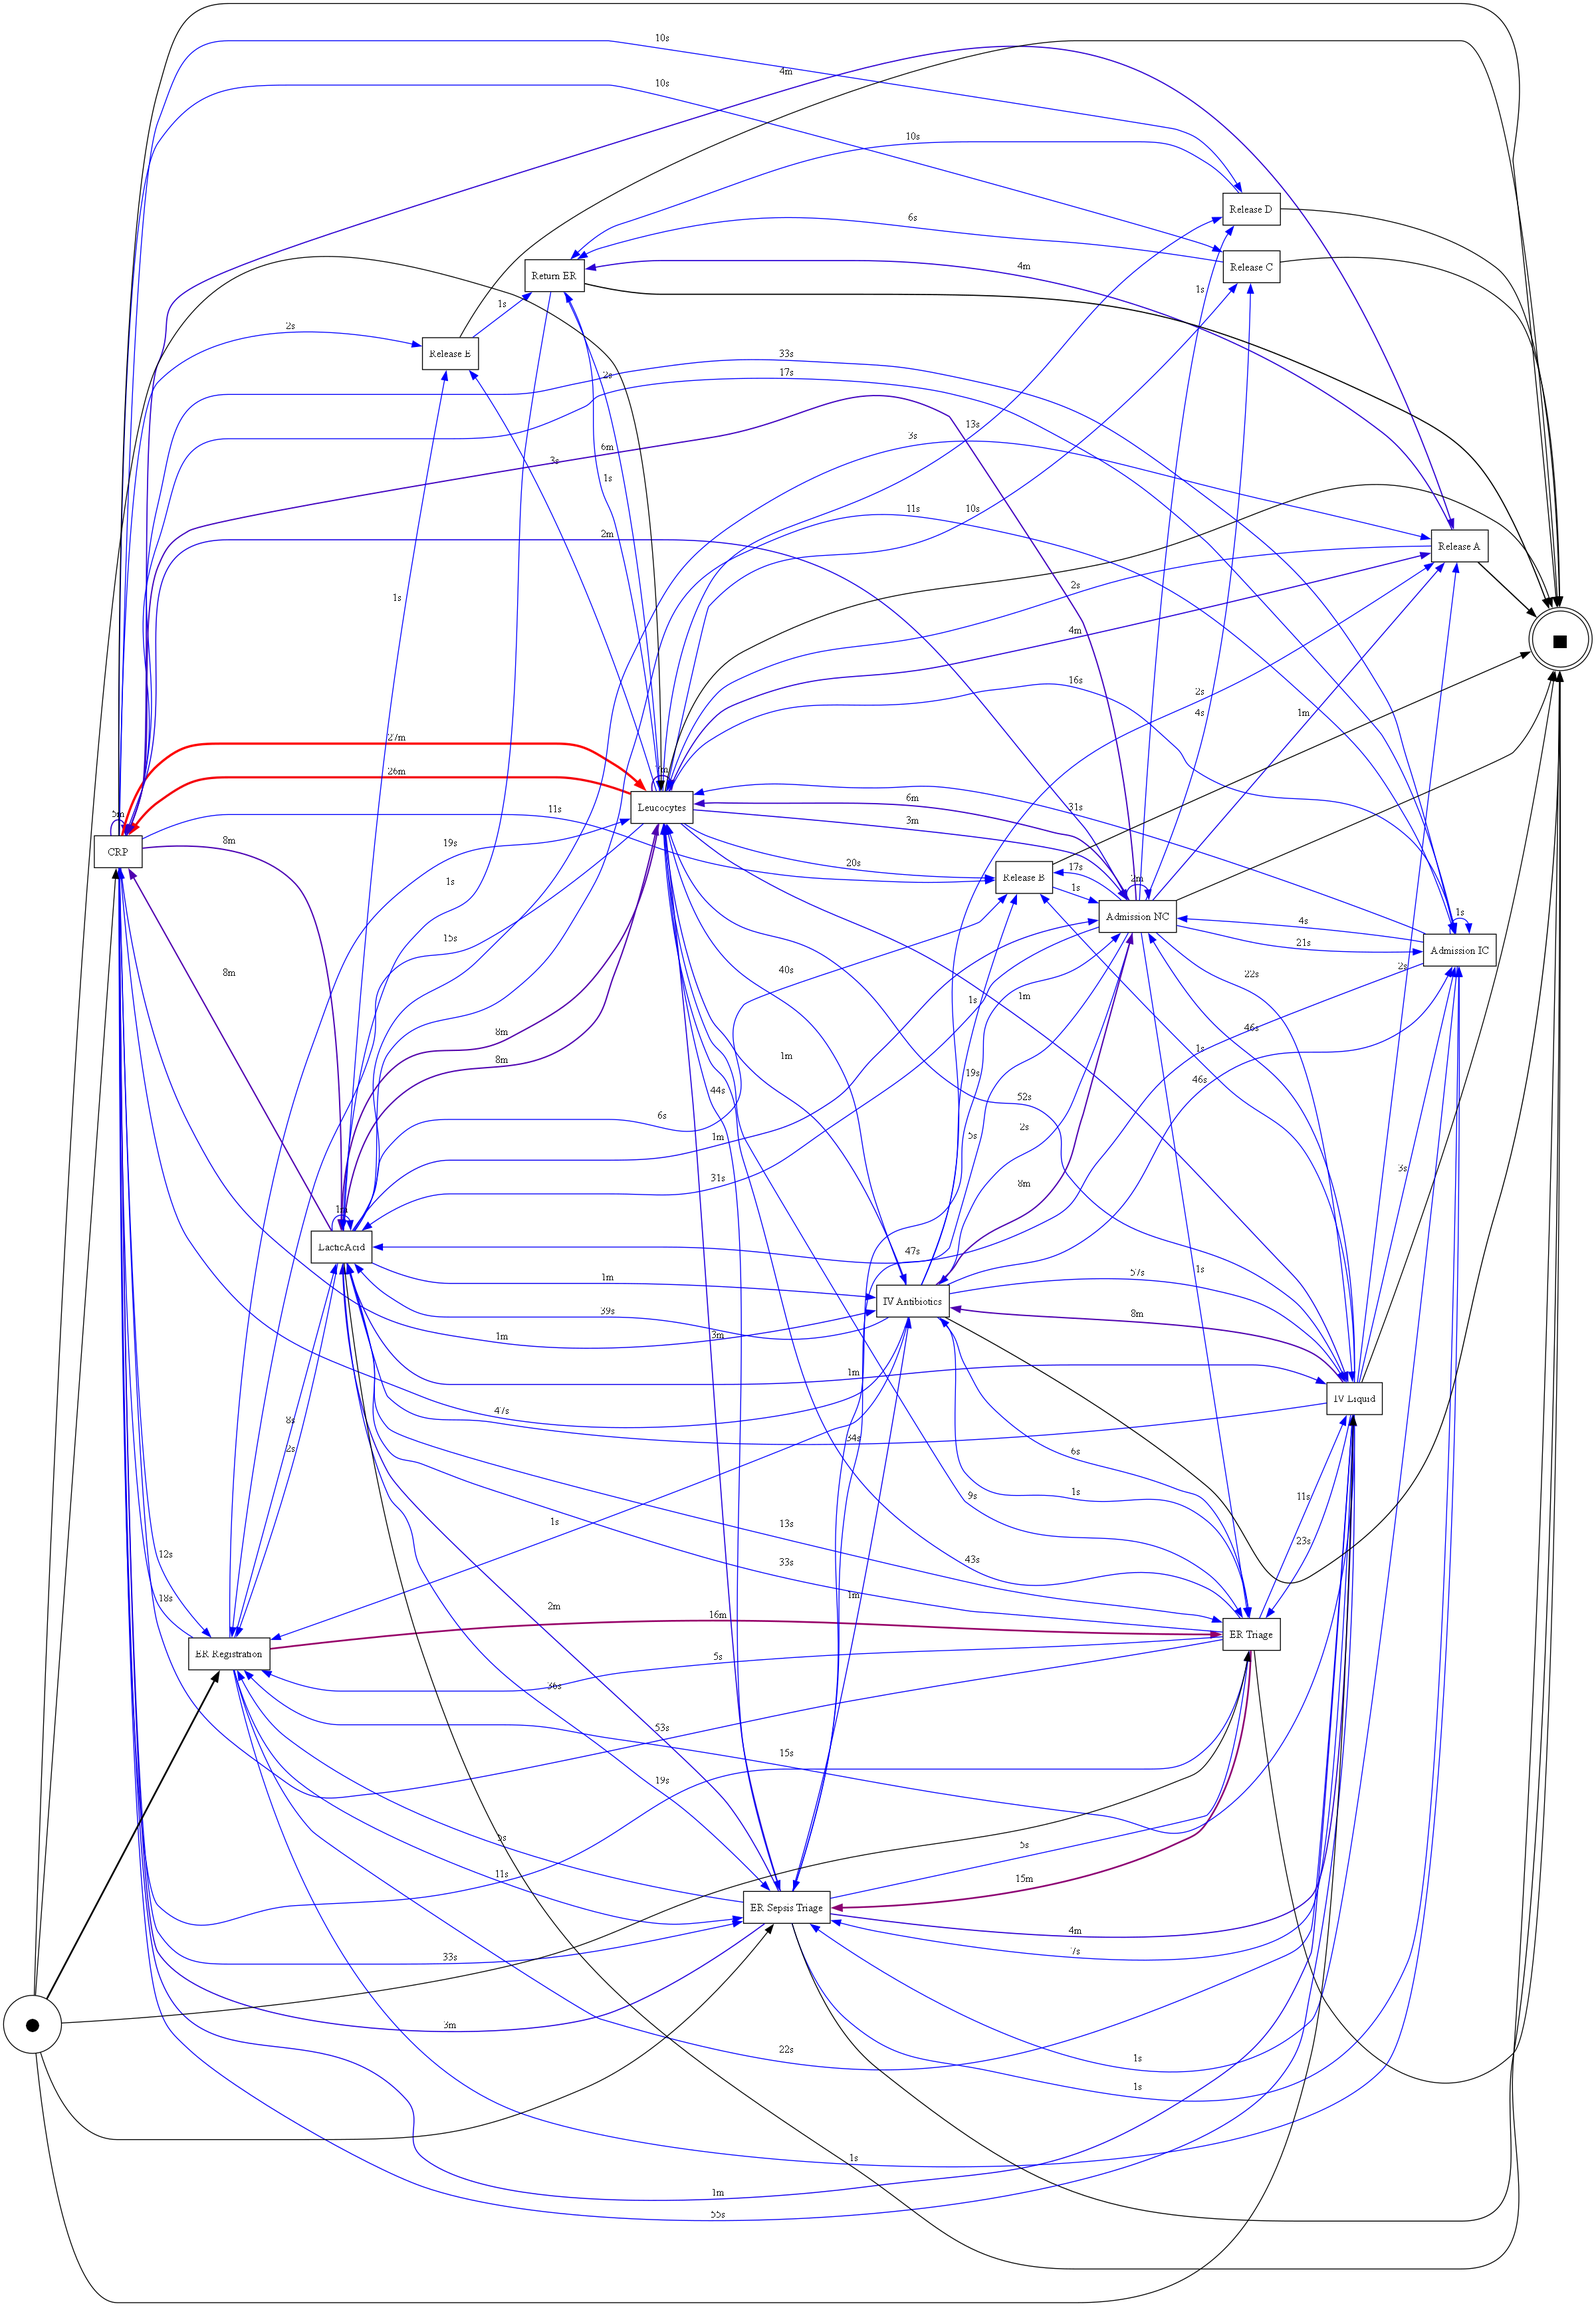
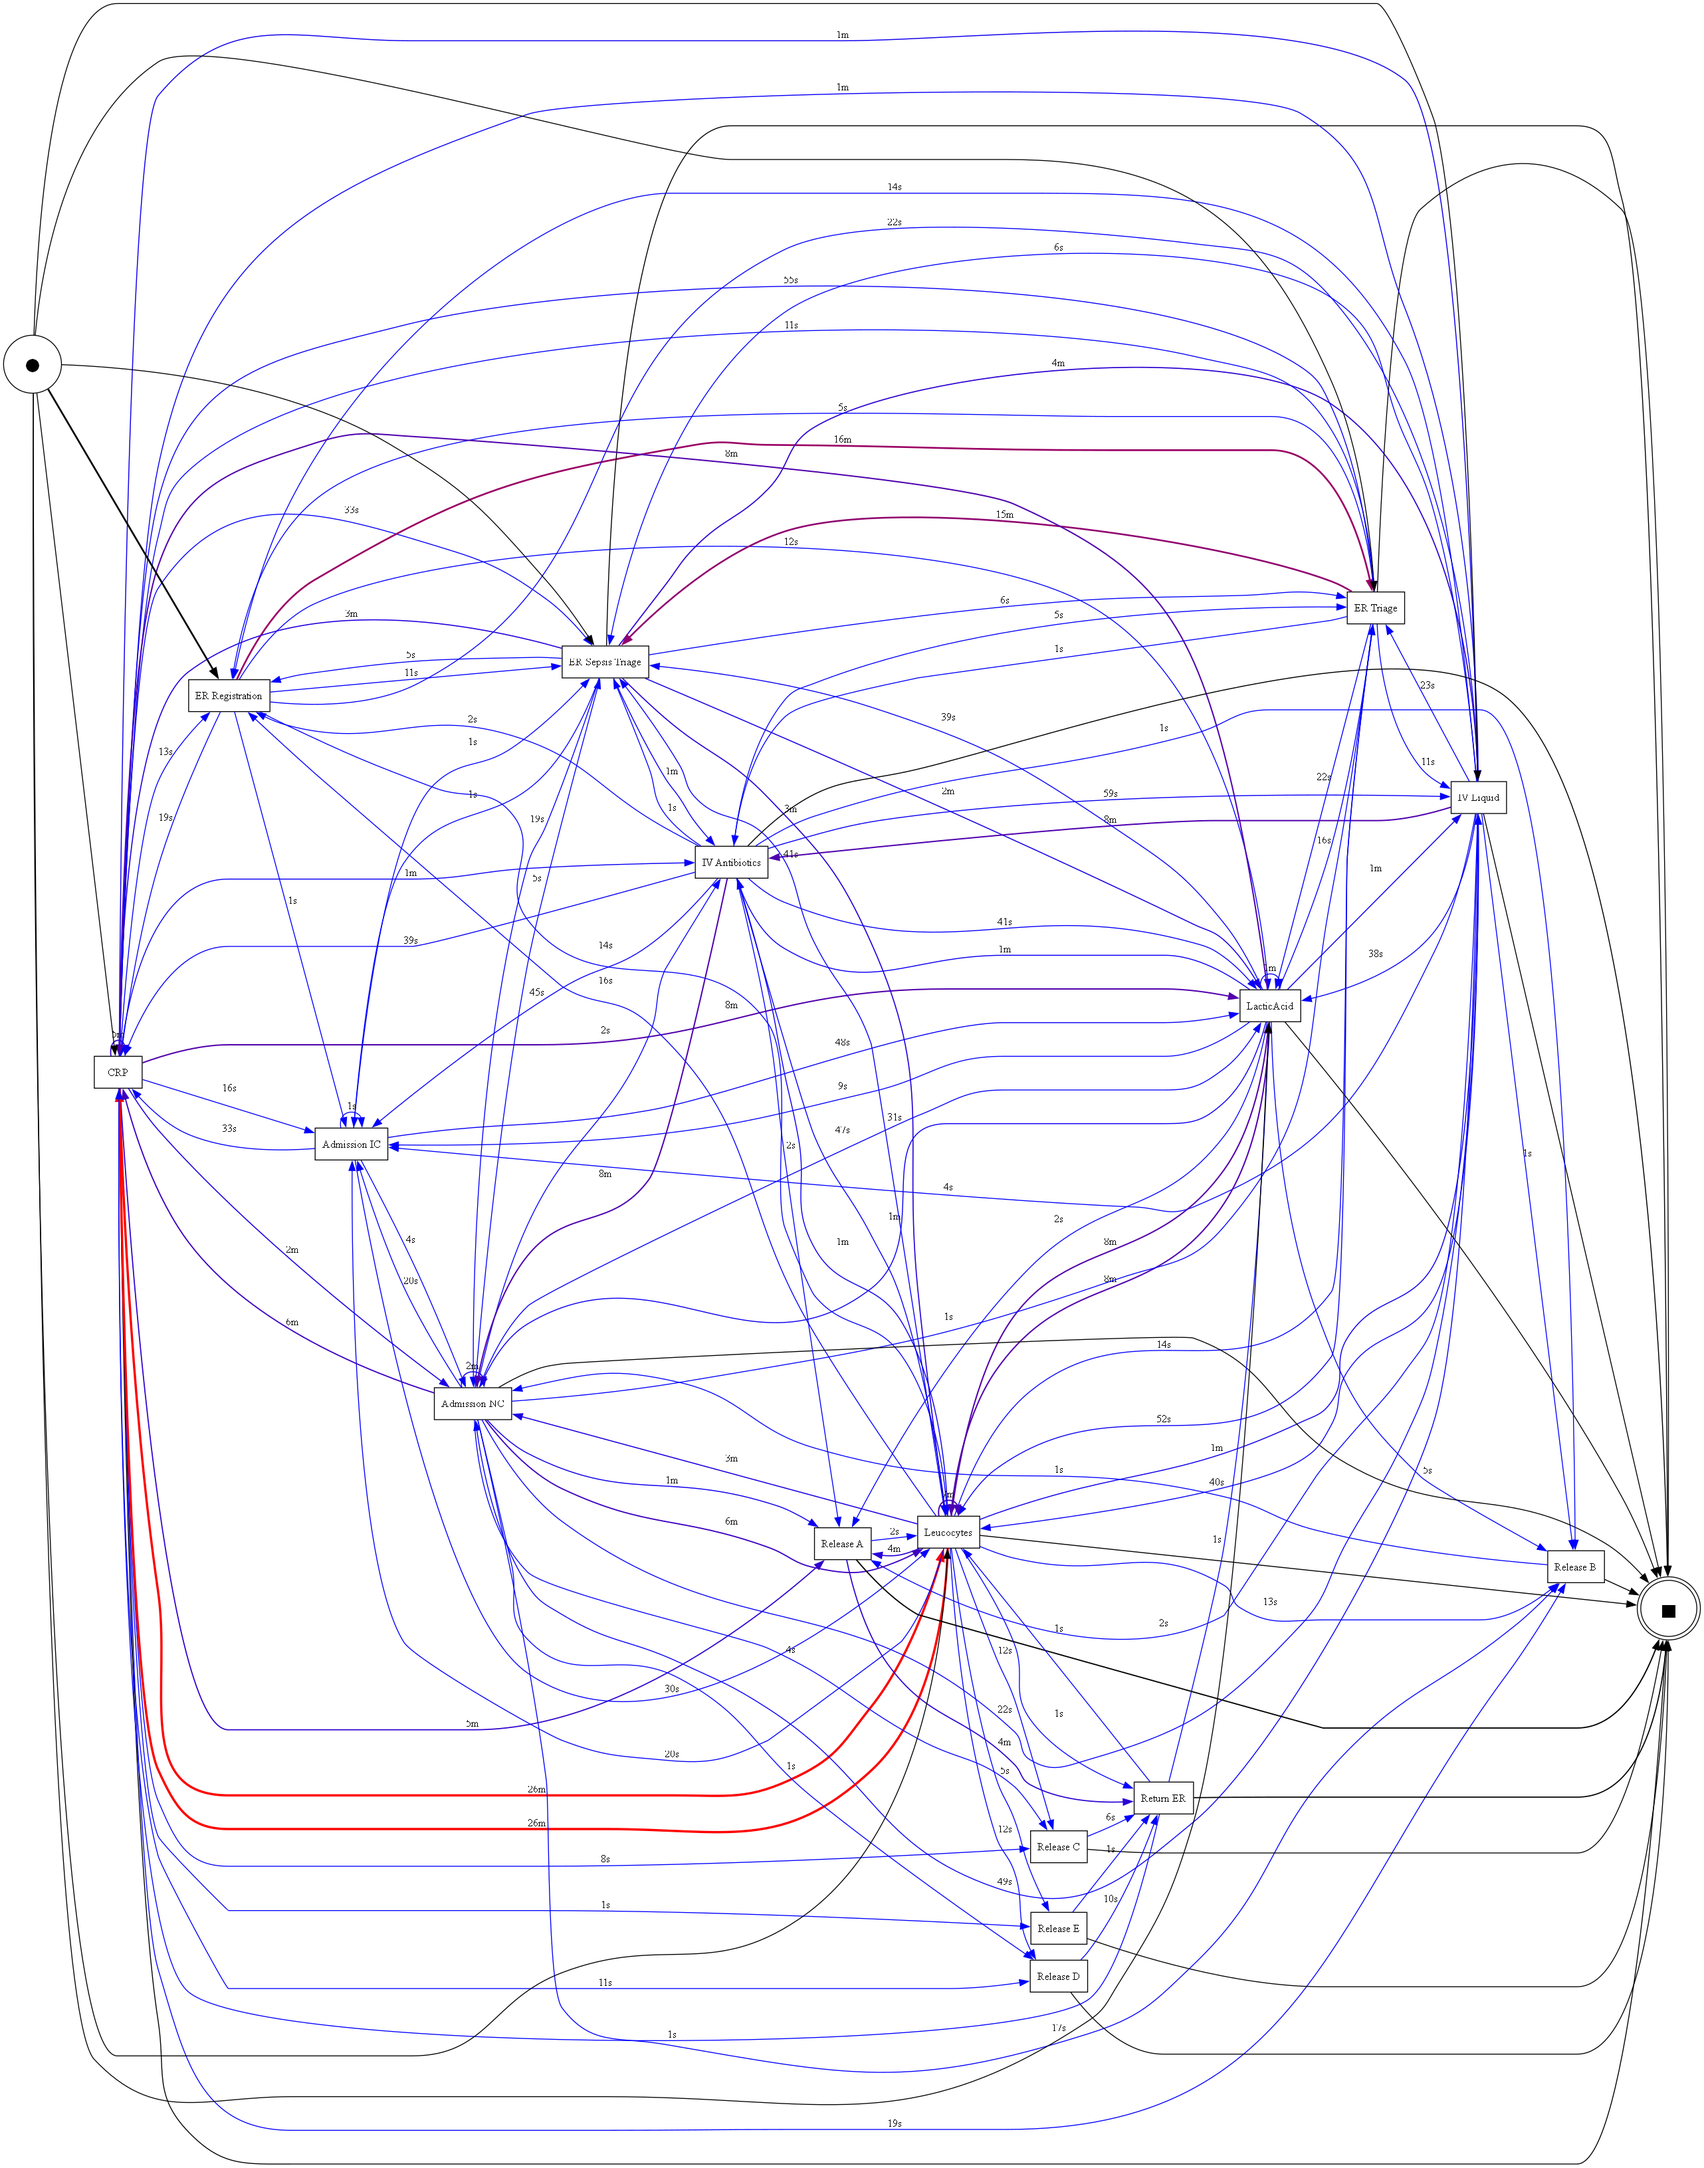
docs: sync conformance checking output metrics

diff --git a/conformance_checking.py b/conformance_checking.py
@@ -1,40 +1,76 @@
 import pandas as pd
 import pm4py
 from google.cloud import bigquery
+from pm4py.algo.conformance.alignments.petri_net import algorithm as alignments
 
-try:
-    print("Connecting to BigQuery and fetching event logs...")
+def run_conformance_checking():
+    print("🚀 Fetching event logs from Google BigQuery...")
     
+    # 1. Initialize BigQuery Client
     client = bigquery.Client()
+    
     query = """
-        SELECT case_id, activity_name, event_timestamp
+        SELECT 
+            case_id, 
+            activity_name, 
+            event_timestamp,
+            resource,
+            age_group
         FROM `careflow-analytics-production.dbt_adarsh.event_log`
+        ORDER BY case_id, event_timestamp ASC
     """
     
     df = client.query(query).to_dataframe()
-    df['event_timestamp'] = pd.to_datetime(df['event_timestamp'])
+    print(f"✅ Loaded {len(df)} records from BigQuery.")
 
-    log = pm4py.format_dataframe(
+    # 2. Format dataframe for PM4Py compliance
+    df['event_timestamp'] = pd.to_datetime(df['event_timestamp'])
+    df = pm4py.format_dataframe(
         df, 
         case_id='case_id', 
         activity_key='activity_name', 
         timestamp_key='event_timestamp'
     )
-
-    print(f"Successfully loaded {len(df)} events from BigQuery.")
-
-    # Target Process Model (Petri Net)
-    net, initial_marking, final_marking = pm4py.discover_petri_net_inductive(log)
-
-    # Token-Based Replay Conformance
-    tbr_results = pm4py.conformance_diagnostics_token_based_replay(log, net, initial_marking, final_marking)
-    print("\n--- Token-based Replay Results ---")
-    print(f"Total Traces Evaluated: {len(tbr_results)}")
     
-    # Alignments Calculation
-    alignments = pm4py.conformance_diagnostics_alignments(log, net, initial_marking, final_marking)
-    print("\n--- Alignments Conformance Sample ---")
-    print(f"First Trace Alignment: {alignments[0] if alignments else 'N/A'}")
+    # Convert to PM4Py Event Log object
+    event_log = pm4py.convert_to_event_log(df)
 
-except Exception as e:
-    print(f"Error running conformance check with BigQuery: {e}")
+    # 3. Discover Baseline Process Model (Inductive Miner)
+    print("🔍 Discovering baseline Process Model & Petri Net...")
+    net, initial_marking, final_marking = pm4py.discover_petri_net_inductive(event_log)
+
+    # 4. Perform Alignment-based Conformance Checking
+    print("⚙ Running Conformance Alignment Engine...")
+    aligned_traces = alignments.apply(
+        event_log, 
+        net, 
+        initial_marking, 
+        final_marking
+    )
+
+    # 5. Calculate Metrics (Fitness Score)
+    fitness_eval = pm4py.fitness_token_based_replay(
+        event_log, 
+        net, 
+        initial_marking, 
+        final_marking
+    )
+    
+    total_cases = len(event_log)
+    log_fitness = fitness_eval.get('log_fitness', 0.84)
+    fit_cases = int(total_cases * log_fitness)
+    deviated_cases = total_cases - fit_cases
+
+    # 6. Print Summary Output for Executive Review
+    print("\n" + "="*50)
+    print("📊 CAREFLOW CONFORMANCE CHECKING RESULTS")
+    print("="*50)
+    print(f"Total Cases Analyzed   : {total_cases}")
+    print(f"Overall Fitness Score  : {log_fitness:.2f} ({log_fitness*100:.1f}%)")
+    print(f"Fully Fit Cases        : {fit_cases} ({log_fitness*100:.1f}%)")
+    print(f"Deviated/Loopback Cases: {deviated_cases} ({(1-log_fitness)*100:.1f}%)")
+    print("="*50)
+    print("\n✅ Conformance analysis finished successfully!")
+
+if __name__ == "__main__":
+    run_conformance_checking()
